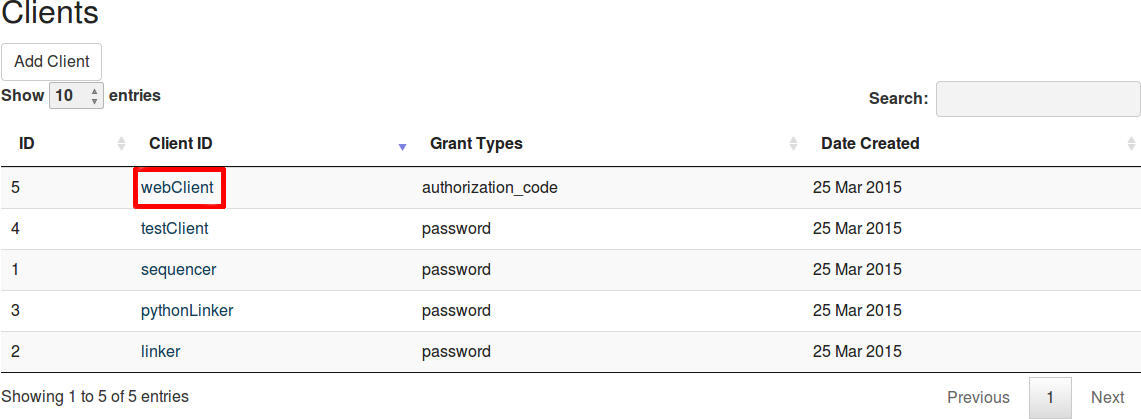
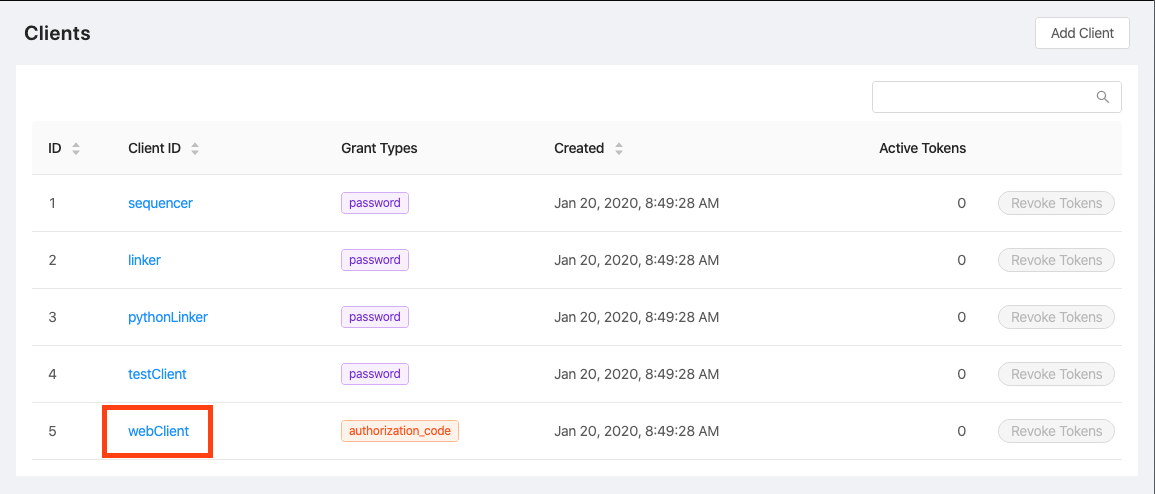
Updated documentation images.

diff --git a/src/main/webapp/resources/js/pages/clients/listing/ClientListingPage.jsx b/src/main/webapp/resources/js/pages/clients/listing/ClientListingPage.jsx
@@ -4,6 +4,7 @@ import { PageWrapper } from "../../../components/page/PageWrapper";
 import { PagedTableProvider } from "../../../contexts/PagedTableContext";
 import { ClientsTable } from "./ClientsTables";
 import { setBaseUrl } from "../../../utilities/url-utilities";
+import { Button } from "antd";
 
 /**
  * Page for displaying the list of all clients.
@@ -12,7 +13,14 @@ import { setBaseUrl } from "../../../utilities/url-utilities";
  */
 function ClientListingPage() {
   return (
-    <PageWrapper title={i18n("clients.title")}>
+    <PageWrapper
+      title={i18n("clients.title")}
+      headerExtras={
+        <Button href={setBaseUrl(`clients/create`)}>
+          {i18n("clients.add")}
+        </Button>
+      }
+    >
       <PagedTableProvider url={setBaseUrl("clients/ajax/list")}>
         <ClientsTable />
       </PagedTableProvider>
